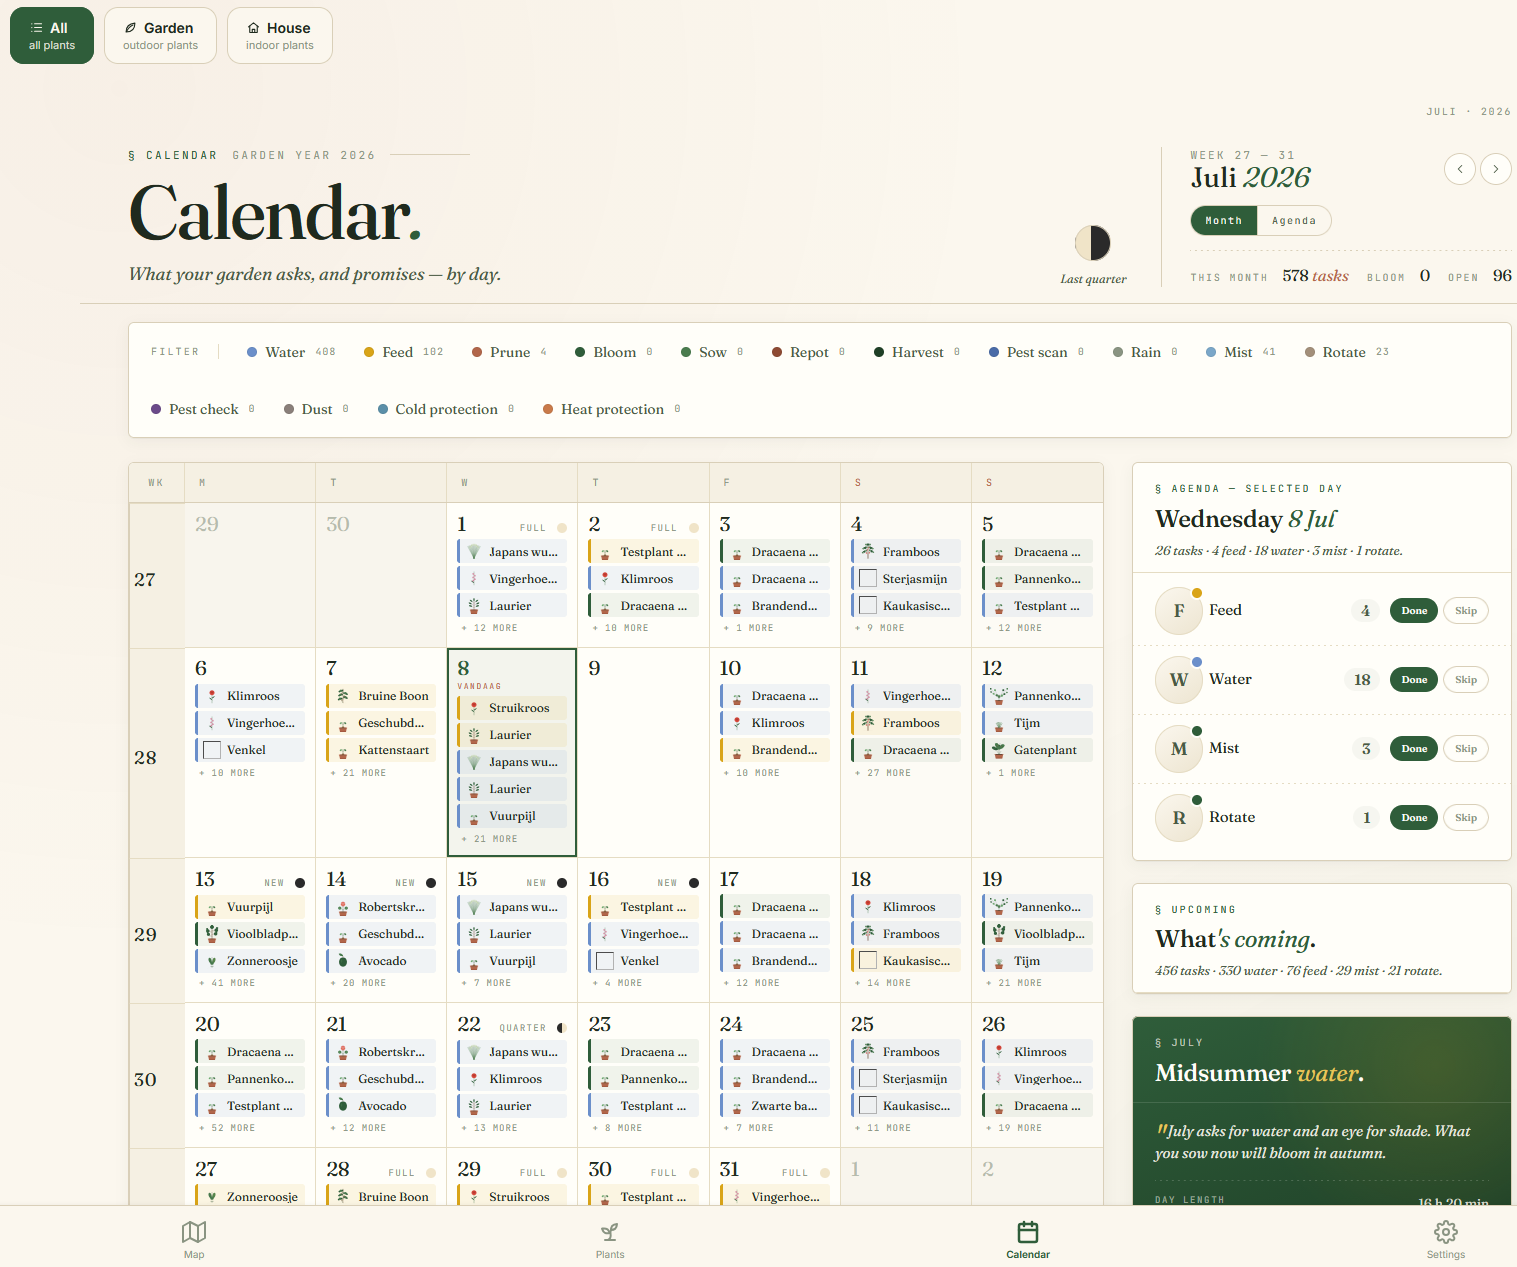
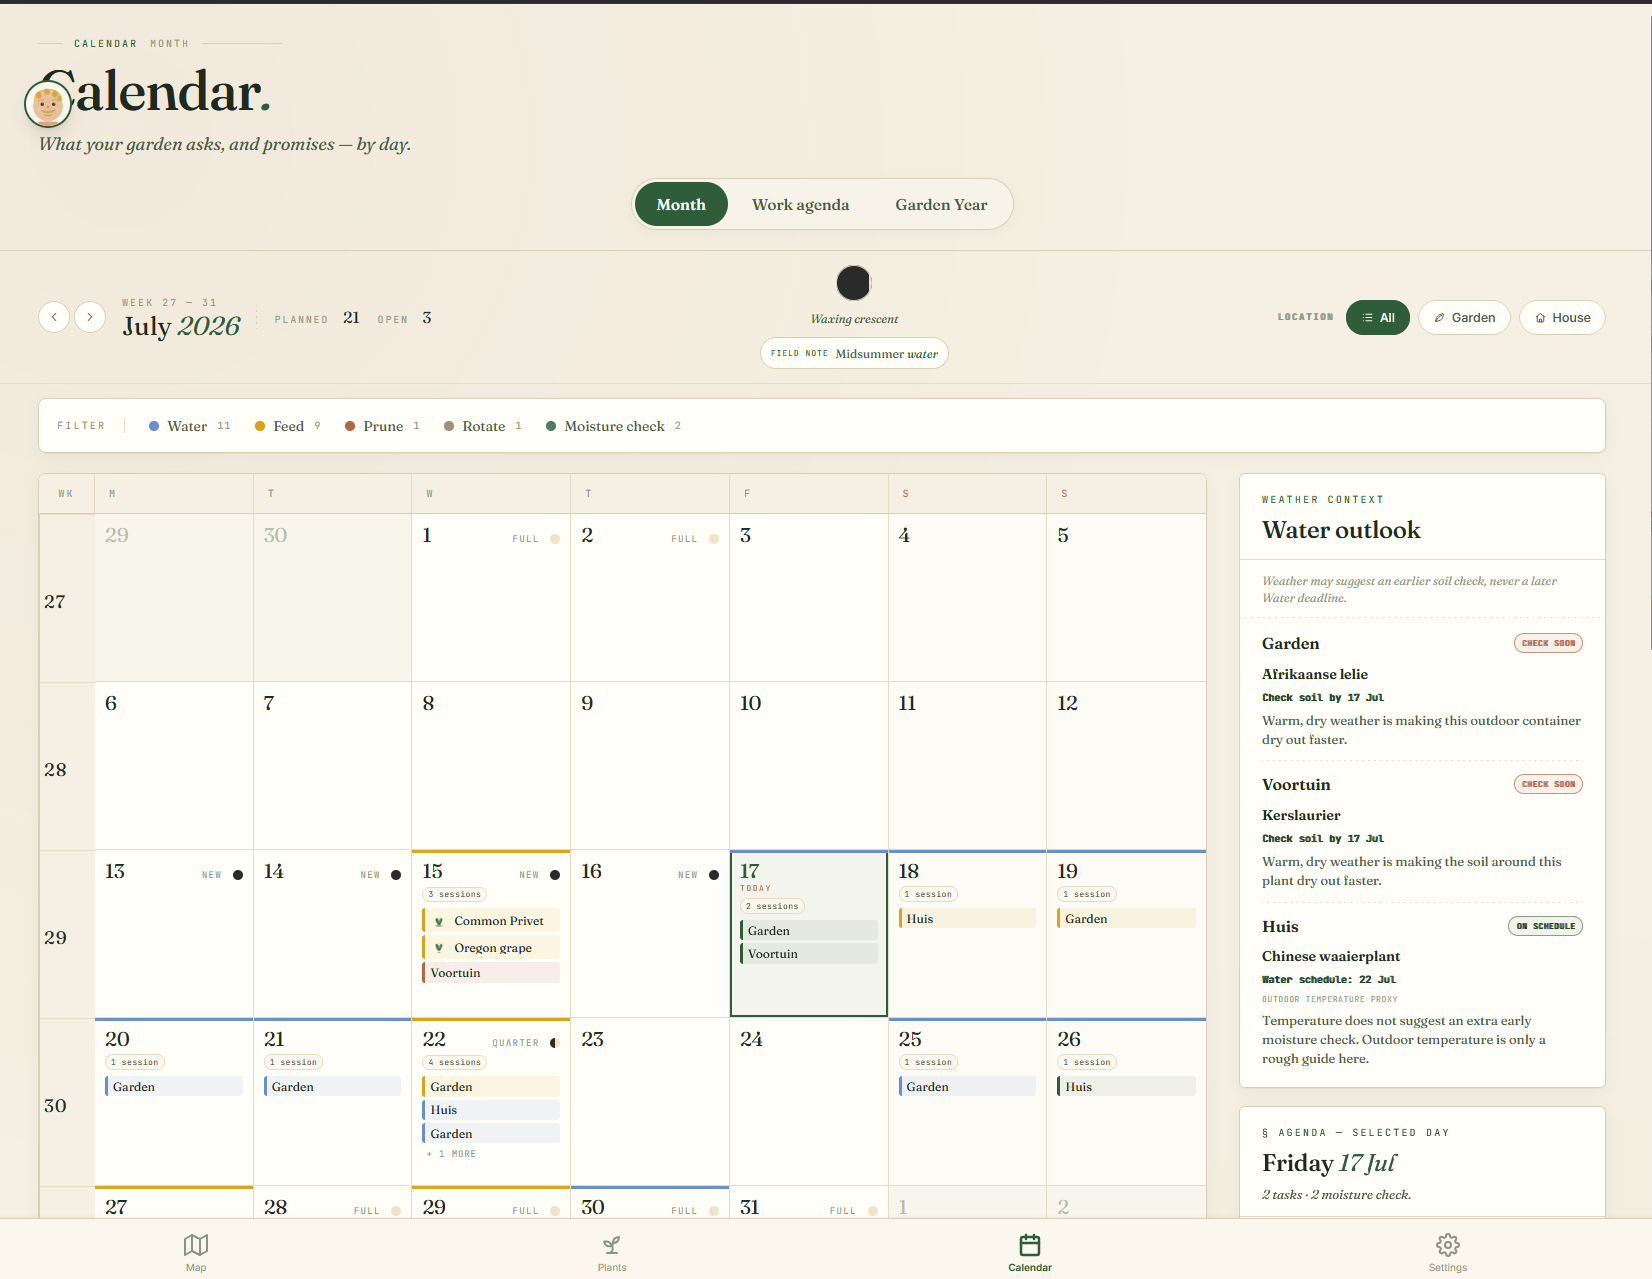
docs: update README with new screenshots and personal tone
- Replace all 6 screenshots with current app views
- Remove AI-speak, em dashes, and personal names
- Add data export, iCal sync, and biodiversity context
- Clarify both web and PWA are first-class experiences

diff --git a/README.md b/README.md
@@ -4,7 +4,7 @@
 
 # Floreren
 
-**A plant-care app for our garden in Amsterdam — built with friends, AI, and a lot of coffee.**
+**A free garden app built for an Amsterdam garden, and now for anyone who wants to stop guessing where to put things.**
 
 [![License: AGPL v3](https://img.shields.io/badge/License-AGPL_v3-4a7c59.svg)](./LICENSE)
 ![PWA](https://img.shields.io/badge/PWA-installable-5a67d8)
@@ -13,7 +13,7 @@
 ![FastAPI](https://img.shields.io/badge/FastAPI-Python-009688?logo=fastapi&logoColor=white)
 ![Postgres](https://img.shields.io/badge/Postgres-Neon-336791?logo=postgresql&logoColor=white)
 
-![Floreren garden map with live sun and shadows](docs/screenshots/map-sun-live.png)
+![Live sun and shadow map over a garden layout](docs/screenshots/live-sunmap.png)
 
 </div>
 
@@ -21,57 +21,47 @@
 
 ## What is this?
 
-Floreren (Dutch for *"to flourish"*) is the app we built to keep track of every plant in our garden and home in Amsterdam. My wife and I kept forgetting to water things, losing track of what we'd planted where, and guessing wrong about which corner gets afternoon sun. So we built something that actually knows.
+Floreren (*"to flourish"* in Dutch) started because plants kept ending up in the wrong corners of an Amsterdam garden. Too much shade here, scorching sun there. Forgetting to water things, losing track of what was planted where, and every spring meant another round of guesswork.
 
-Draw your garden to scale, place each plant, and Floreren figures out the sun's path and the shadows your fence casts — so "that corner gets three hours of sun in June" stops being a guess.
+So we built something that actually knows.
 
-It's a **mobile-first PWA** — add it to your phone's home screen and it feels like a native app.
+Draw your garden to scale, place each plant, and Floreren calculates the sun's path across every month of the year. So "that spot gets three hours of afternoon sun in June" stops being a hunch. It tracks watering, feeding, and growth. It reminds you what needs care today and shows you what's coming up next week.
+
+It works as a normal web app in any browser, and as a **mobile-first PWA**. Add it to your phone's home screen and it feels native. Both are first-class experiences.
+
+The app is **free**, with no paywalls. You can **download all your own data** (plants, photos, history) whenever you want. Calendar sync (iCal) keeps your plant care alongside the rest of your day.
 
 ## What it does
 
-- **Garden & indoor maps** — draw your space to scale, place plants and objects
-- **Live sun & shadow simulation** — real solar position by GPS + date, with a heatmap showing how much light each spot gets across the seasons
-- **Smart care scheduling** — watering and fertilising schedules that adapt to rain and temperature
-- **Plant identification** — snap a photo, get a species match (BioCLIP on GPU, with PlantNet fallback)
-- **Photo journal** — per-plant photo timeline, stored in the cloud
-- **Daily email digest** — what needs care today, with quiet hours so it doesn't ping at midnight
+- **Garden & indoor maps**. Draw any space to scale. Outdoor gardens get GPS coordinates and a compass bearing; indoor floor plans get rooms, walls, doors, and windows. Place plants and structures exactly where they live.
+
+![Garden layout editor with zone tools and measurements on a 12 × 6 m grid](docs/screenshots/editor.png)
+
+- **Live sun & shadow simulation**. Real solar position based on your coordinates and the date. See exactly where shadows fall at any hour of any month. A seasonal heatmap shows how much light every square metre gets throughout the year: full sun, partial, or deep shade.
+
+![Seasonal sun heatmap: full sun to shade, month by month](docs/screenshots/sun-heatmap.png)
+
+- **Plant identification**. Snap a photo of an unknown plant and get a species match. Runs BioCLIP on a local GPU, with PlantNet as a fallback for the tricky ones.
+
+- **Smart care scheduling**. Watering and feeding schedules that know about rain and heat. Rain delays outdoor watering. Heat waves prompt earlier moisture checks for both indoor and outdoor plants. But your personal schedule stays authoritative. The app suggests, never silently rewrites.
+
+![Monthly care calendar with task types, lunar phases, and weather-context advice](docs/screenshots/calendar.png)
+
+- **Plant logbook**. A searchable collection of every plant you own, with botanical illustrations, per-plant photo timelines, care history, and field notes. Filter by location (garden vs. house), type, or growth form.
+
+![Plant collection: 58 plants across 10 categories, with search and location filters](docs/screenshots/plant-logbook.png)
+
+- **Biodiversity score**. A per-garden biodiversity rating based on native Dutch flora and pollinator value. Still Netherlands-only; expanding to other regions is on the roadmap.
+
+- **iCal sync & data export**. Subscribe to your care calendar in any calendar app. Export your full plant database, photos and all, with one click. Your data, your rules.
+
+![Garden map in field-guide view with numbered plant markers](docs/screenshots/garden-map.png)
 
 ## How it's built
 
-Floreren is developed with [Hermes](https://hermes-agent.nousresearch.com) — an AI coding agent that switches between models (DeepSeek, Codex, Claude) depending on the task. Issues are triaged in GitHub, PRs are reviewed by a second model, and everything is verified against the real Vite production build before it ships.
+React 19 + TypeScript + Tailwind on the frontend, FastAPI + Python + asyncpg on the backend, PostgreSQL on Neon. Deployed to Vercel (frontend) and Fly.io (API). The plant identification worker runs on a local GPU behind a Cloudflare tunnel.
 
-The stack is React 19 + TypeScript + Tailwind on the frontend, FastAPI + Python + asyncpg on the backend, PostgreSQL on Neon, and deployments to Vercel (web) and Fly.io (API).
-
-## A look inside
-
-<table>
-  <tr>
-    <td colspan="2" valign="top">
-      <img src="docs/screenshots/map-editor.png" alt="Layout editor — draw your garden to scale">
-      <p align="center"><em>Draw your garden to scale — zones, structures, fences, and the shadow casters that drive the sun simulation.</em></p>
-    </td>
-  </tr>
-  <tr>
-    <td width="50%" valign="top">
-      <img src="docs/screenshots/map-sun-heatmap.png" alt="Seasonal sun heatmap">
-      <p align="center"><em>Seasonal sun heatmap — full sun to shade, month by month.</em></p>
-    </td>
-    <td width="50%" valign="top">
-      <img src="docs/screenshots/biodiversity.png" alt="Garden biodiversity score">
-      <p align="center"><em>A per-garden biodiversity score, with native & pollinator insight.</em></p>
-    </td>
-  </tr>
-  <tr>
-    <td width="50%" valign="top">
-      <img src="docs/screenshots/plants.png" alt="Plant collection">
-      <p align="center"><em>Your plant collection — filter by location, type, and form.</em></p>
-    </td>
-    <td width="50%" valign="top">
-      <img src="docs/screenshots/calendar.png" alt="Care calendar">
-      <p align="center"><em>A care calendar: what each day asks of your garden.</em></p>
-    </td>
-  </tr>
-</table>
+The repo is open source under AGPL v3. Read it, learn from it, run your own instance.
 
 ## Getting started
 
@@ -92,10 +82,10 @@ npm install
 
 # 3. Run both (from the repo root)
 cd ..
-npm run dev                      # frontend on :5173, API on :1415
+npm run dev                      # frontend on :5173, backend on :1415
 ```
 
-> Verify frontend changes with `cd frontend && npm run build` — Vite's build is stricter than `tsc` and catches errors `tsc` misses.
+> Verify frontend changes with `cd frontend && npm run build`. Vite's build is stricter than `tsc` and catches errors `tsc` misses.
 
 ## Project structure
 
@@ -111,7 +101,7 @@ frontend/src/
   utils/          # coordinate math, sun calc, shadow geometry
 backend/
   routers/        # FastAPI route modules
-  services/       # business logic (species knowledge, garden log, …)
+  services/       # business logic
   database/       # asyncpg pool + FastAPI dependency
   alembic/        # schema migrations
   main.py
@@ -119,6 +109,4 @@ backend/
 
 ## License
 
-Licensed under the **GNU Affero General Public License v3.0** — see [LICENSE](./LICENSE). You're free to read, learn from, and build on this code; if you run a modified version as a network service, the AGPL asks you to share those changes.
-
----
+Licensed under the **GNU Affero General Public License v3.0**. See [LICENSE](./LICENSE). You're free to read, learn from, and build on this code; if you run a modified version as a network service, the AGPL asks you to share those changes.
